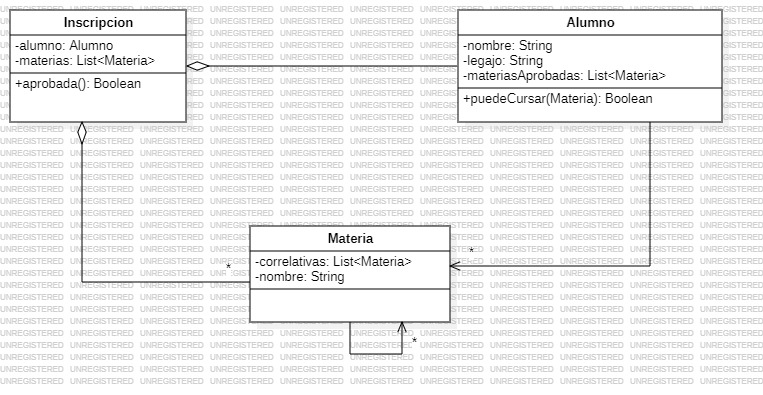
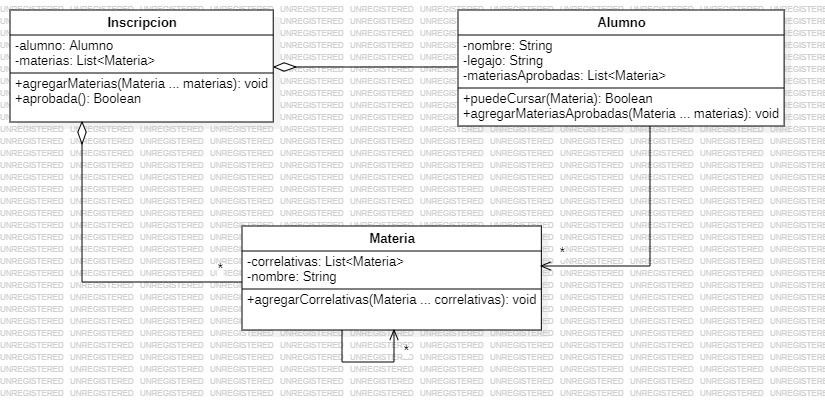
algunos cambios

diff --git a/src/test/java/org/example/InscripcionTest.java b/src/test/java/org/example/InscripcionTest.java
@@ -9,9 +9,12 @@ class InscripcionTest {
         Materia algoritmos = new Materia("Algoritmos y Estructuras de Datos");
         Materia am1 = new Materia("Analisis Matematico 1");
         Materia aga = new Materia("Algebra y Geometria Analitica");
-        Materia pdp = new Materia("Paradigmas de Programacion", algoritmos);
-        Materia dds = new Materia("Disenio de Sistemas", pdp);
-        Materia am2 = new Materia("am2", am1, aga);
+        Materia pdp = new Materia("Paradigmas de Programacion");
+        pdp.agregarCorrelativas(algoritmos);
+        Materia dds = new Materia("Disenio de Sistemas");
+        dds.agregarCorrelativas(pdp);
+        Materia am2 = new Materia("am2");
+        am2.agregarCorrelativas(am1, aga);
 
         Alumno alumno1 = new Alumno("Uri 1", "1234");
         alumno1.agregarMateriasAprobadas(algoritmos, am1, aga);
@@ -19,8 +22,10 @@ class InscripcionTest {
         Alumno alumno2 = new Alumno("Uri 2", "1234");
         alumno2.agregarMateriasAprobadas(algoritmos, pdp);
 
-        Inscripcion inscripcion1 = new Inscripcion(alumno1, am2, dds);
-        Inscripcion inscripcion2 = new Inscripcion(alumno2, dds);
+        Inscripcion inscripcion1 = new Inscripcion(alumno1);
+        inscripcion1.agregarMaterias(am2, dds);
+        Inscripcion inscripcion2 = new Inscripcion(alumno2);
+        inscripcion2.agregarMaterias(dds);
 
         assert(!inscripcion1.aprobada());
         assert(inscripcion2.aprobada());

diff --git a/src/test/java/org/example/AlumnoTest.java b/src/test/java/org/example/AlumnoTest.java
@@ -9,12 +9,16 @@ import static org.junit.jupiter.api.Assertions.*;
 class AlumnoTest {
     @Test
     void puedeCursarTest() {
+
         Materia algoritmos = new Materia("Algoritmos y Estructuras de Datos");
         Materia am1 = new Materia("Analisis Matematico 1");
         Materia aga = new Materia("Algebra y Geometria Analitica");
-        Materia pdp = new Materia("Paradigmas de Programacion", algoritmos);
-        Materia dds = new Materia("Disenio de Sistemas", pdp);
-        Materia am2 = new Materia("am2", am1, aga);
+        Materia pdp = new Materia("Paradigmas de Programacion");
+        pdp.agregarCorrelativas(algoritmos);
+        Materia dds = new Materia("Disenio de Sistemas");
+        dds.agregarCorrelativas(pdp);
+        Materia am2 = new Materia("am2");
+        am2.agregarCorrelativas(am1, aga);
 
         Alumno alumno = new Alumno("Uri", "1234");
         alumno.agregarMateriasAprobadas(algoritmos, am1, aga);

diff --git a/src/main/java/org/example/Materia.java b/src/main/java/org/example/Materia.java
@@ -8,9 +8,12 @@ class Materia {
     private String nombre;
     private List<Materia> correlativas;
 
-    public Materia(String nombre, Materia ... correlativas) {
+    public Materia(String nombre) {
         this.nombre = nombre;
         this.correlativas = new ArrayList<Materia>();
+    }
+
+    public void agregarCorrelativas(Materia ... correlativas) {
         Collections.addAll(this.correlativas, correlativas);
     }
 

diff --git a/src/main/java/org/example/Inscripcion.java b/src/main/java/org/example/Inscripcion.java
@@ -10,8 +10,10 @@ class Inscripcion {
 
     public Inscripcion(Alumno alumno, Materia ... materias) {
         this.alumno = alumno;
-
         this.materias = new ArrayList<Materia>();
+    }
+
+    public void agregarMaterias(Materia ... materias) {
         Collections.addAll(this.materias, materias);
     }
 
